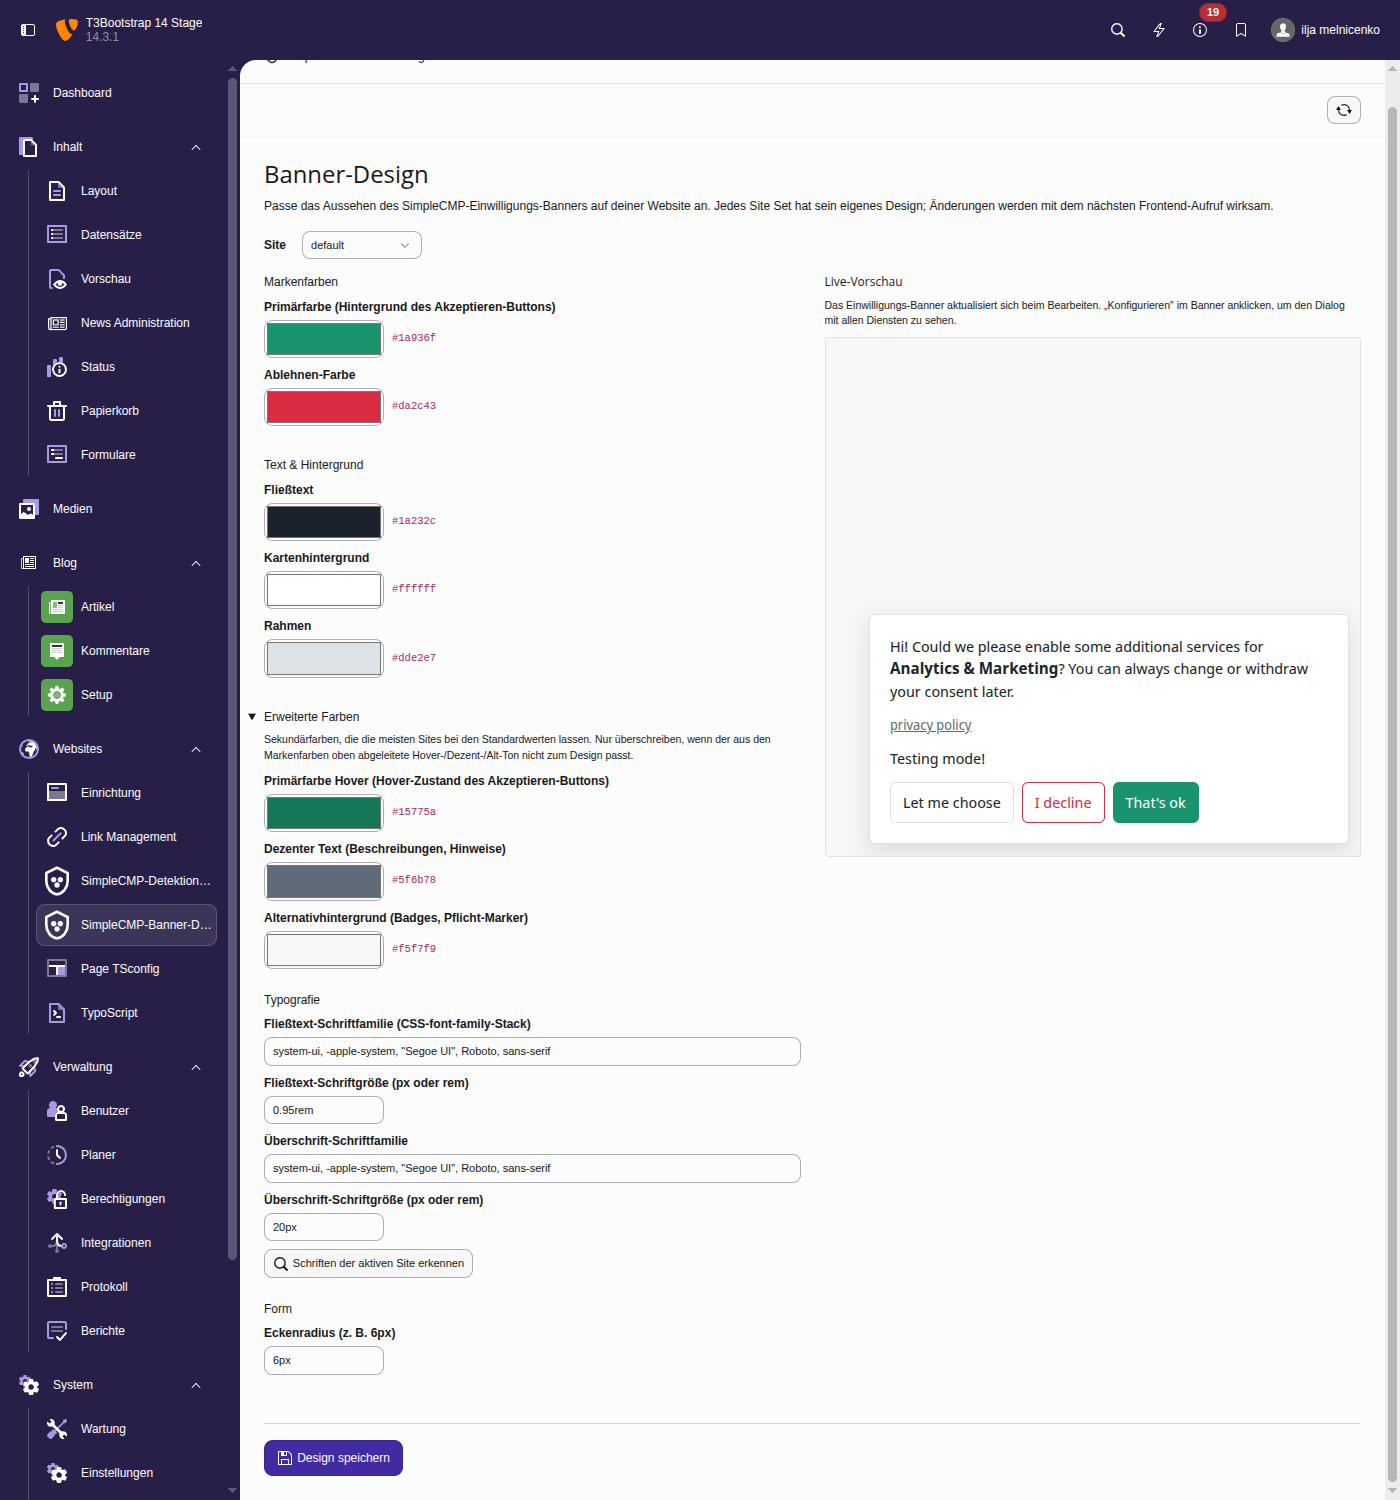
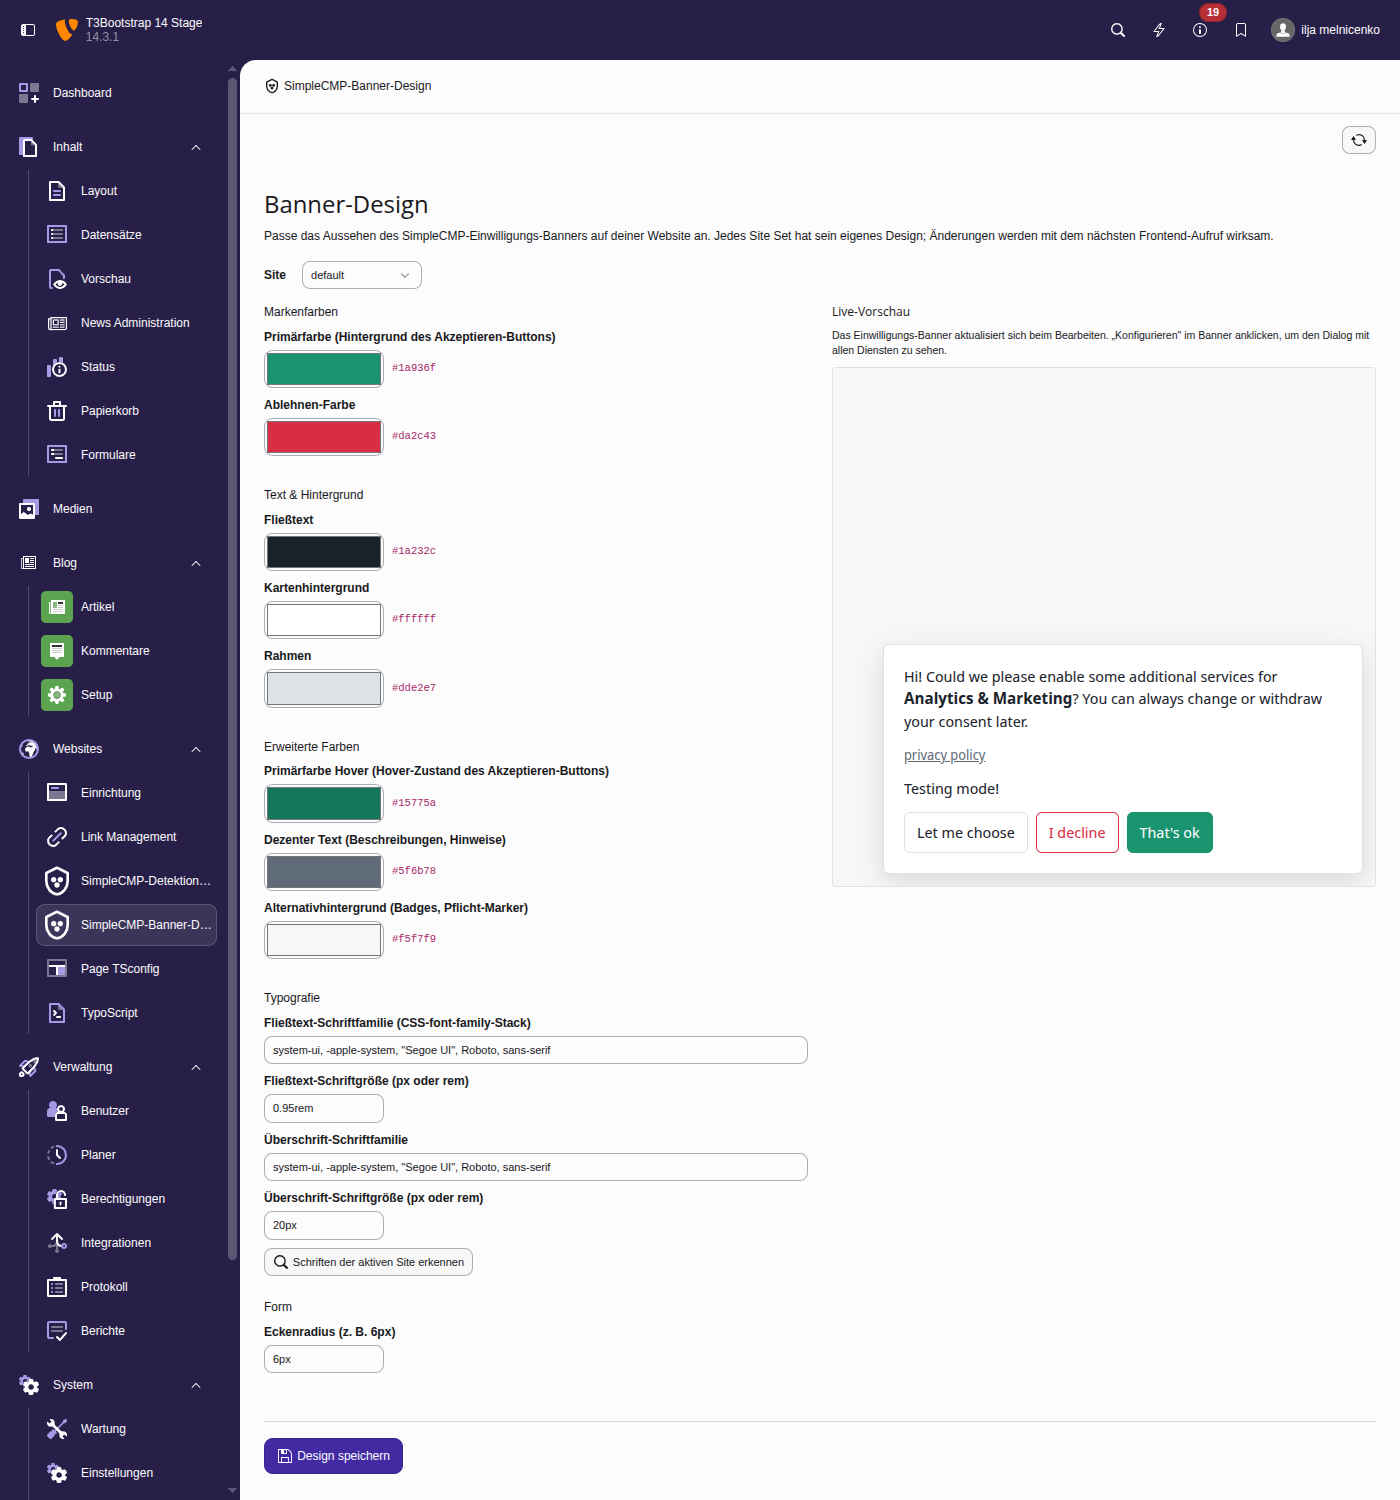
refactor(be): flatten Advanced colors — drop the collapsing disclosure
The Banner Design form's Advanced colors section was wrapped in a
collapsed `<details>` because admins "probably never need it." After
shipping, the decision flipped: those tokens *are* independent design
choices, and hiding them behind a disclosure suggested they were less
important than they really are.

Render Advanced as a flat fieldset like Brand / Surface / Typography /
Shape. Drop the COLLAPSED_GROUPS controller const, the special-case
`<f:if>` branching in the template, and the unused advanced-help
locallang strings (EN + DE).

The screenshot in the README's Screenshots section is retaken so it
reflects the new always-visible layout (was previously captured with
the disclosure manually expanded).

diff --git a/Resources/Private/Templates/ThemeDesigner/Index.html b/Resources/Private/Templates/ThemeDesigner/Index.html
@@ -32,39 +32,24 @@
         <div class="row">
             <div class="col-md-6">
                 <f:for each="{fieldGroups}" as="fields" key="group">
-                    <f:if condition="{group} == 'advanced'">
-                        <f:then>
-                            <details class="mb-4">
-                                <summary class="h5" style="cursor:pointer;list-style-position:outside">
-                                    <f:translate key="LLL:EXT:simplecmp_typo3/Resources/Private/Language/locallang_design.xlf:designer.group.{group}" />
-                                </summary>
-                                <p class="text-body-secondary small mt-2 mb-2">
-                                    <f:translate key="LLL:EXT:simplecmp_typo3/Resources/Private/Language/locallang_design.xlf:designer.group.advanced.help" />
-                                </p>
-                                <f:render section="Fields" arguments="{fields: fields, tokens: tokens}" />
-                            </details>
-                        </f:then>
-                        <f:else>
-                            <fieldset class="mb-4">
-                                <legend class="h5">
-                                    <f:translate key="LLL:EXT:simplecmp_typo3/Resources/Private/Language/locallang_design.xlf:designer.group.{group}" />
-                                </legend>
-                                <f:render section="Fields" arguments="{fields: fields, tokens: tokens}" />
-                                <f:if condition="{group} == 'typography'">
-                                    <div class="mt-2">
-                                        <button type="button"
-                                                class="btn btn-default btn-sm"
-                                                data-detect-fonts
-                                                data-detect-fonts-url="{siteBaseUrl}">
-                                            <core:icon identifier="actions-search" size="small" />
-                                            <f:translate key="LLL:EXT:simplecmp_typo3/Resources/Private/Language/locallang_design.xlf:designer.action.detectFonts" />
-                                        </button>
-                                        <small class="text-body-secondary ms-2 detect-fonts-status" data-detect-fonts-status></small>
-                                    </div>
-                                </f:if>
-                            </fieldset>
-                        </f:else>
-                    </f:if>
+                    <fieldset class="mb-4">
+                        <legend class="h5">
+                            <f:translate key="LLL:EXT:simplecmp_typo3/Resources/Private/Language/locallang_design.xlf:designer.group.{group}" />
+                        </legend>
+                        <f:render section="Fields" arguments="{fields: fields, tokens: tokens}" />
+                        <f:if condition="{group} == 'typography'">
+                            <div class="mt-2">
+                                <button type="button"
+                                        class="btn btn-default btn-sm"
+                                        data-detect-fonts
+                                        data-detect-fonts-url="{siteBaseUrl}">
+                                    <core:icon identifier="actions-search" size="small" />
+                                    <f:translate key="LLL:EXT:simplecmp_typo3/Resources/Private/Language/locallang_design.xlf:designer.action.detectFonts" />
+                                </button>
+                                <small class="text-body-secondary ms-2 detect-fonts-status" data-detect-fonts-status></small>
+                            </div>
+                        </f:if>
+                    </fieldset>
                 </f:for>
             </div>
 

diff --git a/Classes/Controller/Backend/ThemeDesignerController.php b/Classes/Controller/Backend/ThemeDesignerController.php
@@ -63,11 +63,9 @@ final class ThemeDesignerController extends ActionController
 
     /**
      * Field grouping for the form template. Semantic groups — brand
-     * colors and surface colors are always exposed; secondary tokens
-     * (hover/muted/alt) live in a collapsed *Advanced* section because
-     * most admins don't want to think about them and they read fine at
-     * the upstream defaults. Typography and shape get their own
-     * sections for non-color tokens.
+     * colors first, surface colors next, then the secondary "advanced"
+     * tokens (hover/muted/alt) that vary the main ones. Typography and
+     * shape close out with non-color tokens.
      *
      * @var array<string, list<string>>
      */
@@ -95,15 +93,6 @@ final class ThemeDesignerController extends ActionController
         'shape' => ['radius'],
     ];
 
-    /**
-     * Groups rendered inside a collapsed `<details>` block. Default
-     * state is collapsed because admins who don't open it see saved
-     * values + auto-applied upstream defaults — both fine.
-     *
-     * @var list<string>
-     */
-    private const array COLLAPSED_GROUPS = ['advanced'];
-
     public function __construct(
         private readonly ModuleTemplateFactory $moduleTemplateFactory,
         private readonly PageRenderer $pageRenderer,
@@ -127,7 +116,6 @@ final class ThemeDesignerController extends ActionController
             'siteBaseUrl' => $this->siteBaseUrl($site),
             'tokens' => $tokens,
             'fieldGroups' => self::FIELD_GROUPS,
-            'collapsedGroups' => self::COLLAPSED_GROUPS,
             'hasCustomTheme' => $hasCustomTheme,
             'uri_save' => $this->uri('save'),
             'uri_reset' => $this->uri('reset', ['site' => $site]),
